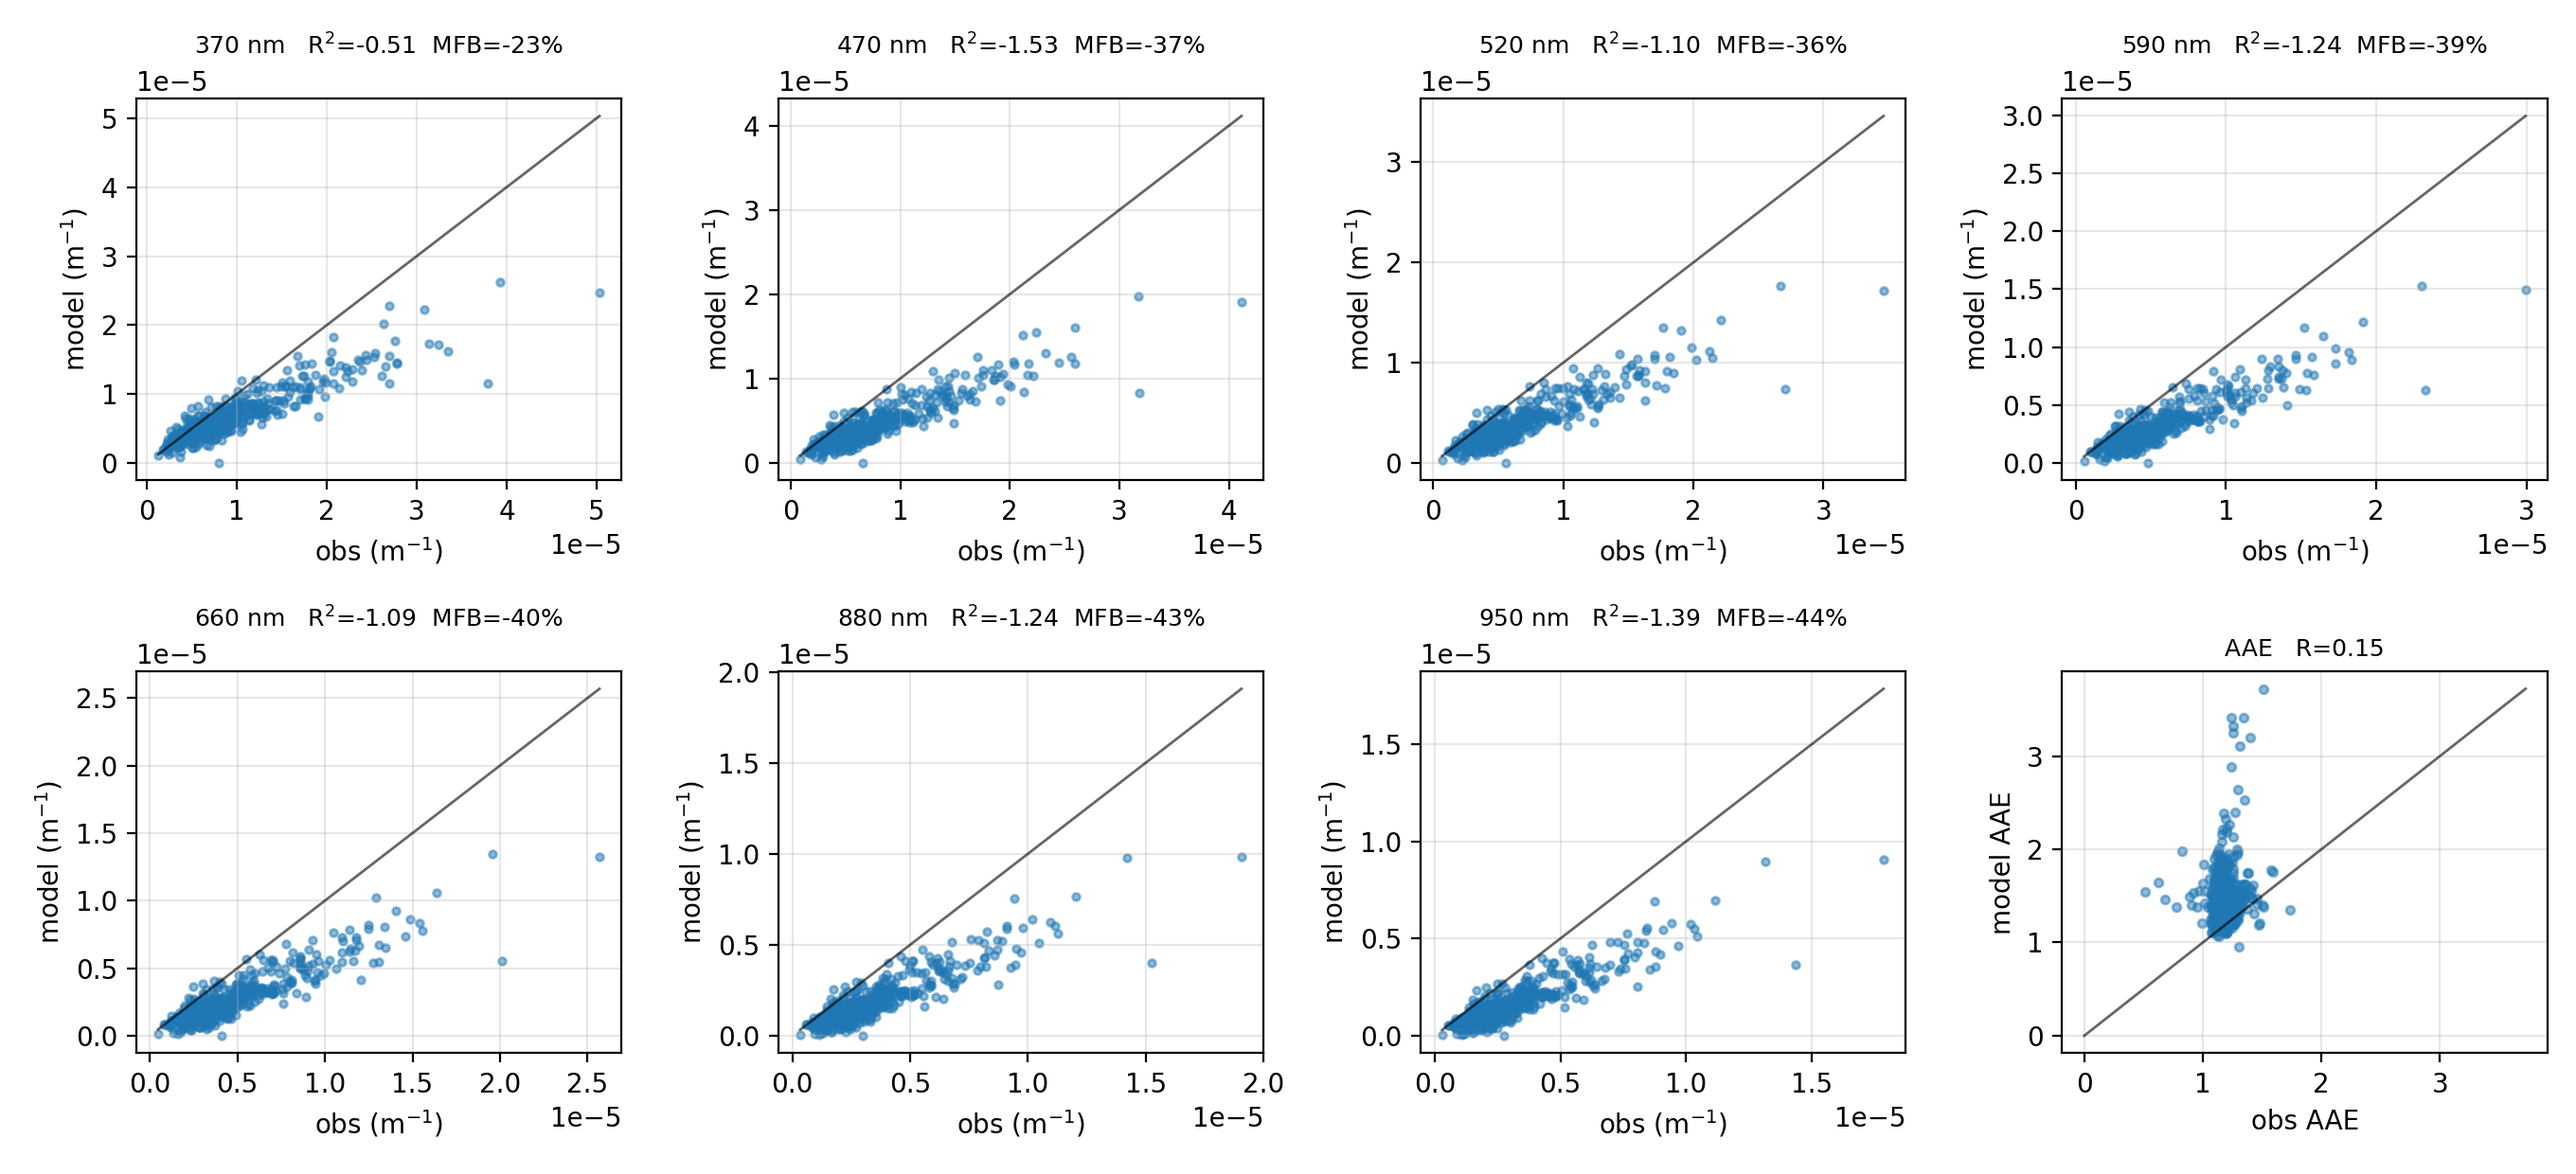
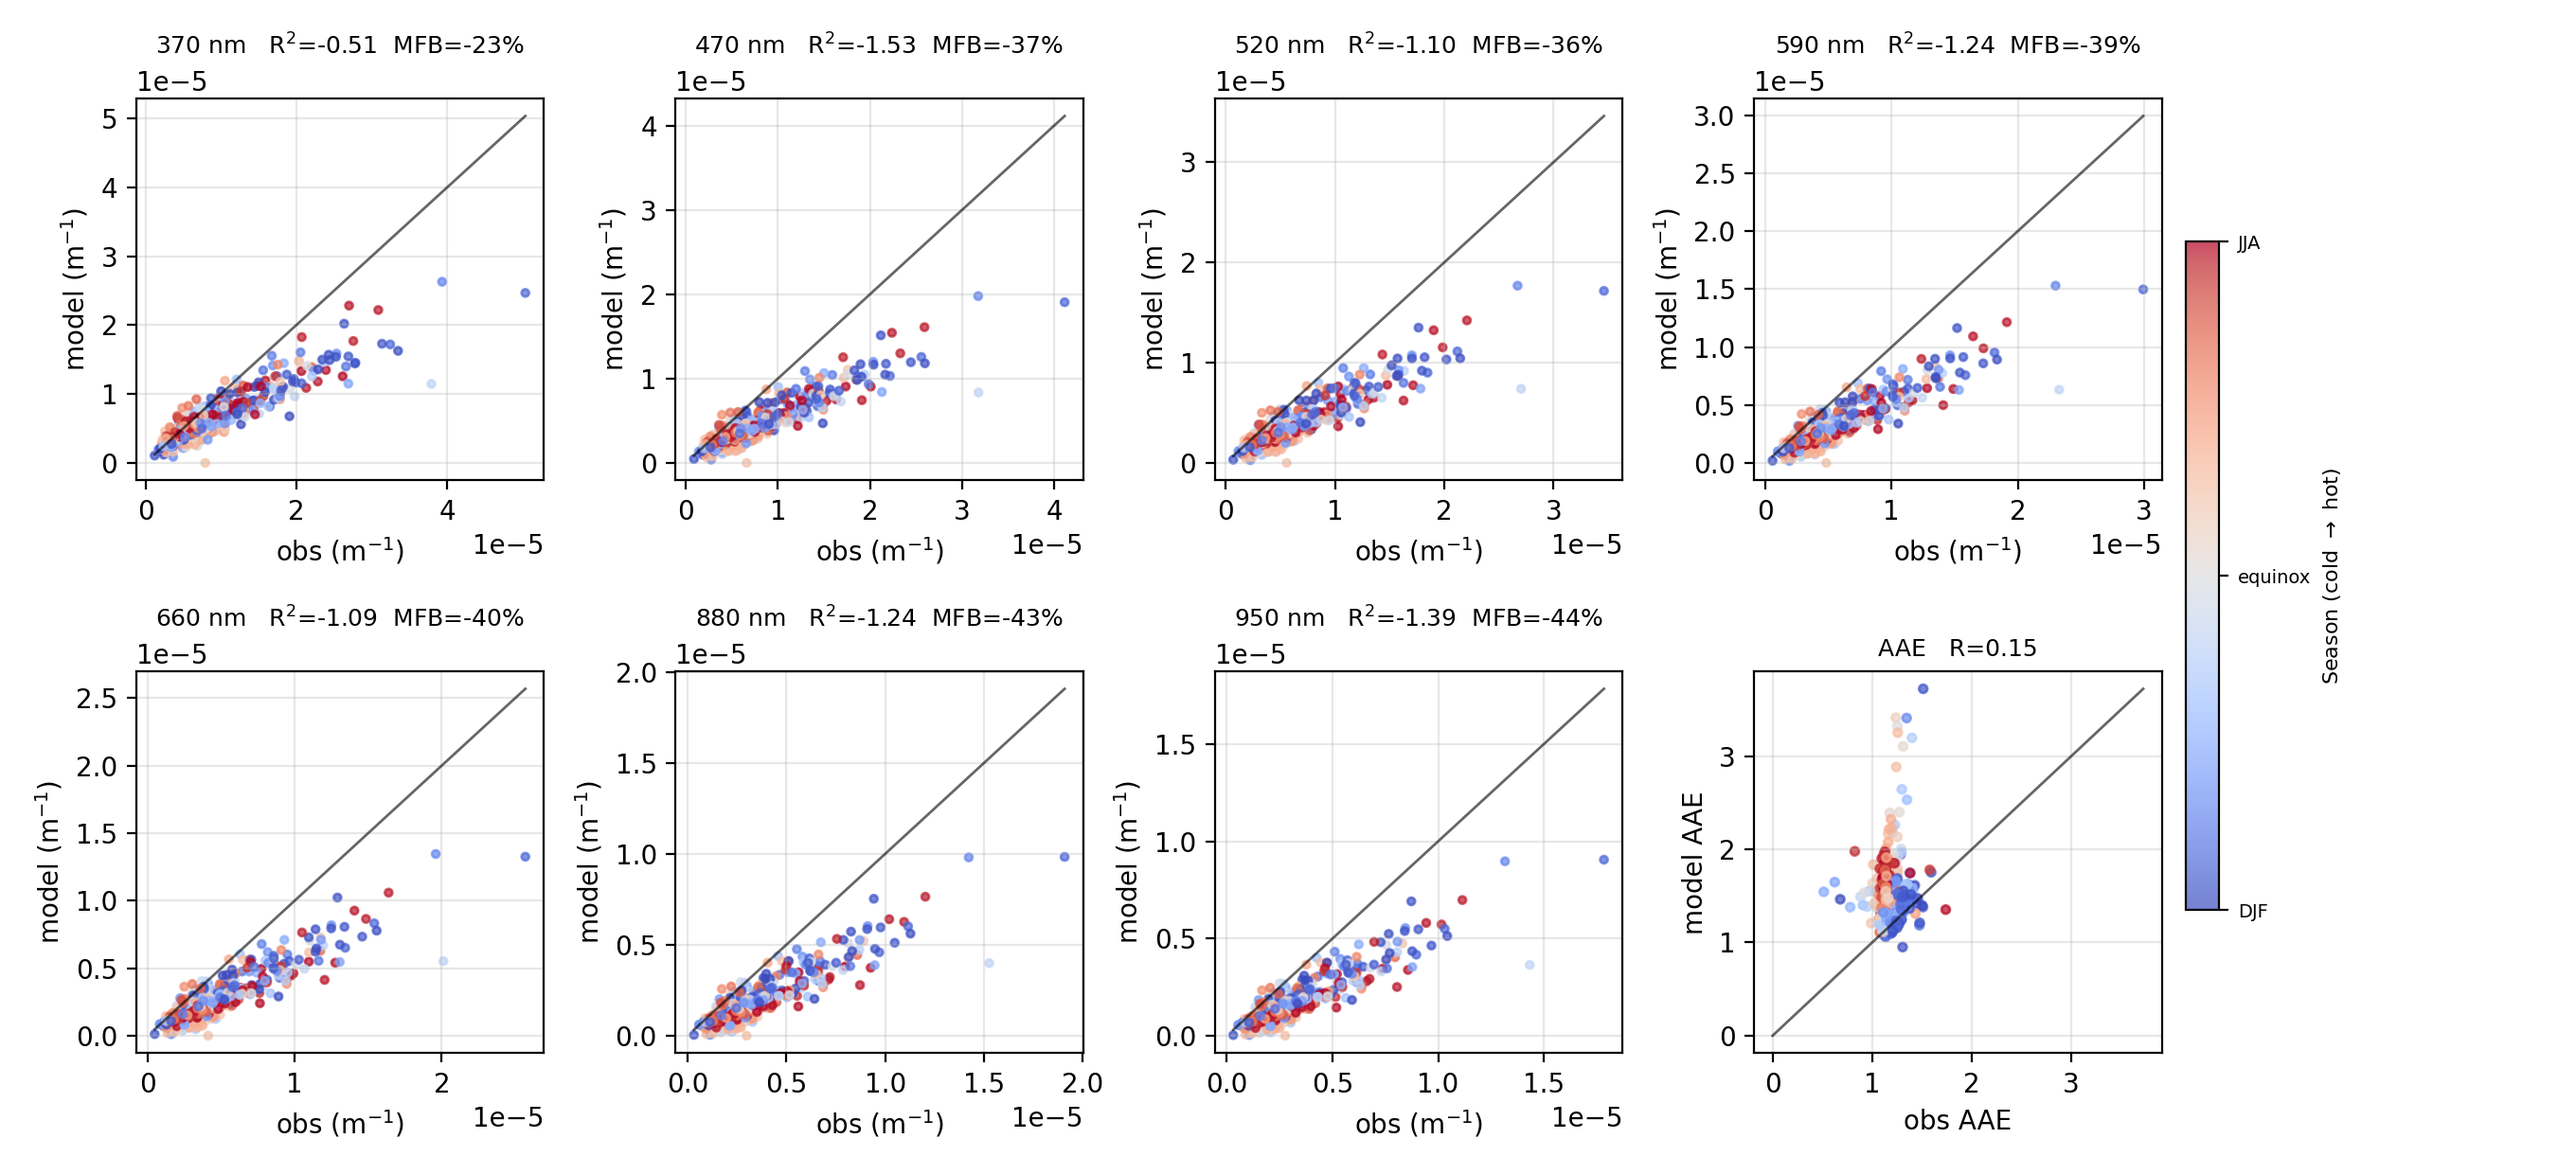
Add mass-size-distribution figure, AAE timeseries panel, and seasonal hot-cold colouring (DJF blue -> JJA red) to model-vs-obs scatter and timeseries; fix log-x bar tiling in size-bin plots

diff --git a/analyze_coreshell_test.py b/analyze_coreshell_test.py
@@ -8,7 +8,8 @@ Analysis of coreshell_test.nc (produced by coreshell_mixture.py).
                            contributions, HAS_SHELL fractions, AAE (model)
 4. Model vs observations-> per-wavelength MFB/RMSE/R2 against COBS, AAE model vs obs
 5. Figures (PNG)        -> coreshell_test_babs_vs_wl.png, coreshell_test_size_bins.png,
-                           coreshell_test_model_vs_obs.png, coreshell_test_timeseries.png
+                            coreshell_test_model_vs_obs.png, coreshell_test_timeseries.png,
+                            coreshell_test_msd.png
 
 Run:  python analyze_coreshell_test.py
 """
@@ -19,6 +20,8 @@ import matplotlib
 matplotlib.use('Agg')
 import matplotlib.pyplot as plt
 import matplotlib.dates as mdates
+from matplotlib.cm import ScalarMappable
+from matplotlib.lines import Line2D
 import pandas as pd
 
 # --- Files (resolved relative to this script so it runs from anywhere)
@@ -45,9 +48,14 @@ S = len(species)
 
 # --- Load observations (optional: model-vs-obs section skipped if missing)
 cobs = None
+msd = {}                       # species -> (N, Sr) g m-3, for the MSD figure
 if os.path.exists(F_OBS):
     obs = ncd(F_OBS, 'r')
     cobs = obs.variables['COBS'][:].filled()             # (F, L) m-1
+    for _v, _n in [('RORG', 'org'), ('RSOO', 'soot'), ('RSO4', 'so4'),
+                   ('RNO3', 'no3'), ('RNH4', 'nh4')]:
+        if _v in obs.variables:
+            msd[_n] = obs.variables[_v][:].filled()      # (N, Sr) g m-3
     obs.close()
     assert cobs.shape[0] == N, 'observation count differs from model'
 else:
@@ -63,6 +71,16 @@ if os.path.exists(F_TXT):
               % (os.path.basename(F_TXT), len(times), N))
         times = None
 x_ax = times.to_numpy() if times is not None else np.arange(N)
+
+# seasonal phase along the annual cycle: +1 in mid-July (JJA, hot),
+# -1 in mid-January (DJF, cold), ~0 at the equinoxes (mid-Apr/Oct)
+season = None
+if times is not None:
+    doy = (times.dt.dayofyear
+           + (times - times.dt.normalize()).dt.total_seconds() / 86400.0)
+    season = np.asarray(np.cos(2.0 * np.pi * (doy - 196.0) / 365.25))
+cmap = plt.get_cmap('coolwarm')
+snorm = plt.Normalize(-1, 1)
 
 # =====================================================================
 # 1. Data summary
@@ -180,6 +198,15 @@ if cobs is not None:
 print()
 print('5. FIGURES')
 
+# bin edges at the midpoints between neighbouring bin centers, so the bars
+# tile the log x-axis edge-to-edge (drawn with align='edge'; a fixed
+# data-unit width would overlap badly instead)
+bedges = np.empty(Sr + 1)
+bedges[0] = rc[0] - 0.5 * (rc[1] - rc[0])          # may be < 0, clipped by axis
+bedges[1:-1] = 0.5 * (rc[:-1] + rc[1:])
+bedges[-1] = rc[-1] + 0.5 * (rc[-1] - rc[-2])
+bw = bedges[1:] - bedges[:-1]
+
 # --- Fig 1: wavelength dependence -------------------------------------
 fig, ax = plt.subplots(1, 2, figsize=(11, 4.2))
 ax[0].errorbar(wls, mean_tot, yerr=babs_tot.std(axis=0), fmt='o-', capsize=3,
@@ -214,8 +241,10 @@ print('  saved %s' % p1)
 
 # --- Fig 2: size-bin profile -------------------------------------------
 fig, ax = plt.subplots(figsize=(7.5, 4.2))
-ax.bar(rc, mcs_b,  width=0.7, color='0.3',        label='core-shell')
-ax.bar(rc, mext_b, width=0.7, bottom=mcs_b, color='tab:orange', label='externally mixed')
+ax.bar(bedges[:-1], mcs_b,  width=bw, align='edge', color='0.3',
+       label='core-shell')
+ax.bar(bedges[:-1], mext_b, width=bw, align='edge', bottom=mcs_b,
+       color='tab:orange', label='externally mixed')
 ax.set_xscale('log')
 ax.set_xlabel('Bin center radius (um)')
 ax.set_ylabel(r'mean $\sigma_{abs}$ per bin (m$^{-1}$)')
@@ -234,17 +263,29 @@ fig.savefig(p2, dpi=200)
 plt.close(fig)
 print('  saved %s' % p2)
 
-# --- Fig 3: model vs observations ---------------------------------------
+# --- Fig 3: model vs observations (points coloured by season) ------------
 if cobs is not None:
+    def _sc(axp, x, y, s=8, mask=None):
+        if mask is not None:
+            x, y = x[mask], y[mask]
+        kw = dict(s=s, alpha=0.5)
+        if season is not None:
+            kw.update(c=season if mask is None else season[mask],
+                      cmap=cmap, norm=snorm, alpha=0.7)
+        return axp.scatter(x, y, **kw)
+
     npan = L + 1
     ncol = 4
     nrow = int(np.ceil(npan / ncol))
     fig, axes = plt.subplots(nrow, ncol, figsize=(3.4 * ncol, 3.1 * nrow))
     axes = np.atleast_1d(axes).ravel()
+    sc0 = None
     for l in range(L):
         axp = axes[l]
         m, o = babs_tot[:, l], cobs[:, l]
-        axp.scatter(o, m, s=8, alpha=0.5)
+        c = _sc(axp, o, m)
+        if sc0 is None:
+            sc0 = c
         lo = o.max()
         axp.plot([o.min(), lo], [o.min(), lo], 'k-', lw=1, alpha=0.6)
         ok = o > 0
@@ -256,7 +297,7 @@ if cobs is not None:
         axp.grid(alpha=0.3)
     axp = axes[L]
     fok = fa & np.isfinite(aae_obs)
-    axp.scatter(aae_obs[fok], aae_model[fok], s=10, alpha=0.5)
+    _sc(axp, aae_obs, aae_model, s=10, mask=fok)
     lo = max(aae_obs.max(), aae_model.max())
     axp.plot([0, lo], [0, lo], 'k-', lw=1, alpha=0.6)
     axp.set_title('AAE   R=%.2f' % np.corrcoef(aae_model[fok], aae_obs[fok])[0, 1],
@@ -265,32 +306,133 @@ if cobs is not None:
     axp.set_ylabel('model AAE')
     axp.grid(alpha=0.3)
     fig.tight_layout()
+    if season is not None:
+        cb = fig.colorbar(sc0, ax=axes.tolist(), orientation='vertical',
+                          pad=0.01, shrink=0.7)
+        cb.set_ticks([-1.0, 0.0, 1.0])
+        cb.set_ticklabels(['DJF', 'equinox', 'JJA'], fontsize=7)
+        cb.set_label('Season (cold $\\rightarrow$ hot)', fontsize=8)
     p3 = os.path.join(HERE, 'coreshell_test_model_vs_obs.png')
     fig.savefig(p3, dpi=200)
     plt.close(fig)
     print('  saved %s' % p3)
 
-# --- Fig 4: timeseries at 3 key wavelengths ------------------------------
-fig, axes = plt.subplots(3, 1, figsize=(10, 7.5), sharex=True)
+# --- Fig 4: timeseries at 3 key wavelengths (+ AAE) -----------------------
 ikeys = [int(np.argmin(np.abs(wls - w))) for w in (370, 520, 880)]
-for axp, l in zip(axes, ikeys):
-    axp.plot(x_ax, babs_tot[:, l], '-', color='tab:red', lw=0.8, label='model')
+has_aae = cobs is not None and aae_obs is not None
+nrows = 4 if has_aae else 3
+fig, axes = plt.subplots(nrows, 1, figsize=(10, 2.5 * nrows), sharex=True)
+# model line coloured by season along its length: drawn as short segments,
+# each coloured with the phase of its left endpoint
+def _sline(axp, x, y, svals):
+    cols = cmap(snorm(svals[:-1]))
+    for i in range(len(x) - 1):
+        axp.plot(x[i:i + 2], y[i:i + 2], '-', lw=0.8, color=cols[i],
+                 solid_capstyle='projecting')
+
+for axp, l in zip(axes[:3], ikeys):
+    if season is not None:
+        _sline(axp, x_ax, babs_tot[:, l], season)
+    else:
+        axp.plot(x_ax, babs_tot[:, l], '-', color='tab:red', lw=0.8, label='model')
     if cobs is not None:
-        axp.plot(x_ax, cobs[:, l], '.', color='k', ms=4, alpha=0.5, label='obs')
+        axp.plot(x_ax, cobs[:, l], '.', color='k', ms=4, alpha=0.5,
+                 label=('obs' if season is None else None))
     axp.set_yscale('log')
     axp.set_ylabel('%d nm (m$^{-1}$)' % wls[l])
-    axp.legend(loc='upper right', fontsize=8)
+    if season is not None:
+        # coloured line has no single colour -> neutral legend entry
+        h = [Line2D([0], [0], color='0.4', lw=1.2, label='model')]
+        if cobs is not None:
+            h.append(Line2D([0], [0], marker='.', color='w',
+                            markerfacecolor='k', ms=5, label='obs'))
+        axp.legend(handles=h, loc='upper right', fontsize=8)
+    else:
+        axp.legend(loc='upper right', fontsize=8)
     axp.grid(alpha=0.3, which='both')
     if times is not None:
         axp.xaxis.set_major_formatter(mdates.DateFormatter('%Y-%m'))
+if has_aae:
+    axp = axes[3]
+    fok = np.isfinite(aae_model) & np.isfinite(aae_obs)
+    if season is not None:
+        _sline(axp, x_ax[fok], aae_model[fok], season[fok])
+    else:
+        axp.plot(x_ax[fok], aae_model[fok], '-', color='tab:red', lw=0.8,
+                 label='model')
+    axp.plot(x_ax[fok], aae_obs[fok], '.', color='k', ms=4, alpha=0.5,
+             label=('obs' if season is None else None))
+    axp.set_ylabel('AAE')
+    if season is not None:
+        h = [Line2D([0], [0], color='0.4', lw=1.2, label='model'),
+             Line2D([0], [0], marker='.', color='w',
+                    markerfacecolor='k', ms=5, label='obs')]
+        axp.legend(handles=h, loc='upper right', fontsize=8)
+    else:
+        axp.legend(loc='upper right', fontsize=8)
+    axp.grid(alpha=0.3)
 axes[-1].set_xlabel('Datetime' if times is not None else 'Sample index')
-fig.suptitle('Total absorption: model vs observations', y=1.0)
+fig.suptitle('Total absorption and AAE: model vs observations' if has_aae
+             else 'Total absorption: model vs observations', y=1.0)
 fig.autofmt_xdate()
 fig.tight_layout(rect=(0, 0, 1, 0.97))
+if season is not None:
+    sm = ScalarMappable(cmap=cmap, norm=snorm)
+    sm.set_array([])
+    cb = fig.colorbar(sm, ax=axes.tolist(), orientation='vertical',
+                      pad=0.02, shrink=0.6)
+    cb.set_ticks([-1.0, 0.0, 1.0])
+    cb.set_ticklabels(['DJF', 'equinox', 'JJA'], fontsize=7)
+    cb.set_label('Season (cold $\\rightarrow$ hot)', fontsize=8)
 p4 = os.path.join(HERE, 'coreshell_test_timeseries.png')
 fig.savefig(p4, dpi=200)
 plt.close(fig)
 print('  saved %s' % p4)
+
+# --- Fig 5: mass size distribution -----------------------------------------
+# NB: stacked bars on a log y-axis are misleading (a segment's apparent
+# height ~ log(top/bottom), so the bottom segment is hugely inflated), so
+# each species is a line here, plus a 100%-stacked share panel (linear y)
+# where the segment heights are the true fractions.
+if msd:
+    order = [s for s in ('soot', 'org', 'so4', 'no3', 'nh4') if s in msd]
+    colors = {'soot': '0.3', 'org': 'saddlebrown', 'so4': 'red',
+              'no3': 'blue', 'nh4': 'orange'}
+    marks = {'soot': 'o', 'org': 's', 'so4': '^', 'no3': 'v', 'nh4': 'D'}
+    mss = {n: msd[n].mean(axis=0) for n in order}     # (Sr,) g m-3, mean over samples
+    tot = sum(mss[n] for n in order)
+    fig, (ax, axb) = plt.subplots(2, 1, figsize=(7.5, 6.8))
+    for n in order:
+        ax.plot(rc, mss[n], color=colors[n], marker=marks[n], ms=4, lw=1, label=n)
+    ax.plot(rc, tot, 'k--', lw=1, label='total')
+    ax.set_xscale('log')
+    ax.set_yscale('log')
+    ax.set_ylabel(r'mean mass per bin (g m$^{-3}$)')
+    ax.set_title('Mass size distribution (mean over samples)')
+    ax.grid(alpha=0.3, which='both')
+    ax.legend(fontsize=8, ncol=3)
+    fr = np.vstack([mss[n] for n in order])           # (S, Sr) g m-3
+    fr = np.divide(fr, tot[None, :], out=np.zeros_like(fr),
+                   where=tot[None, :] > 0) * 100.0    # % of bin mass
+    bottom = np.zeros(Sr)
+    for i, n in enumerate(order):
+        axb.bar(bedges[:-1], fr[i], width=bw, align='edge', bottom=bottom,
+                color=colors[n])
+        bottom += fr[i]
+    axb.set_xscale('log')
+    axb.set_ylim(0, 100)
+    axb.set_xlabel('Bin center radius (um)')
+    axb.set_ylabel('% of bin mass')
+    axb.set_title('Species share of bin mass (colors as above)')
+    axb.grid(alpha=0.3, axis='y')
+    fig.tight_layout()
+    p5 = os.path.join(HERE, 'coreshell_test_msd.png')
+    fig.savefig(p5, dpi=200)
+    plt.close(fig)
+    print('  saved %s' % p5)
+else:
+    print('NOTE: no RORG/RSOO/RSO4/RNO3/RNH4 in %s -> MSD figure skipped'
+          % os.path.basename(F_OBS))
 
 print()
 print('Done.')
